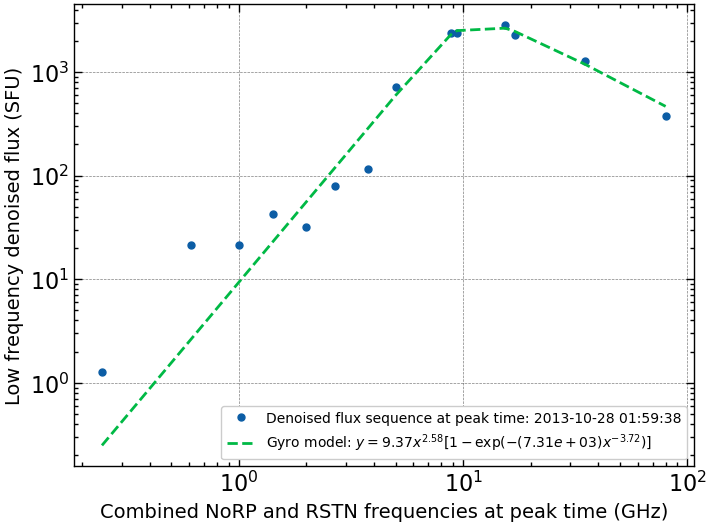
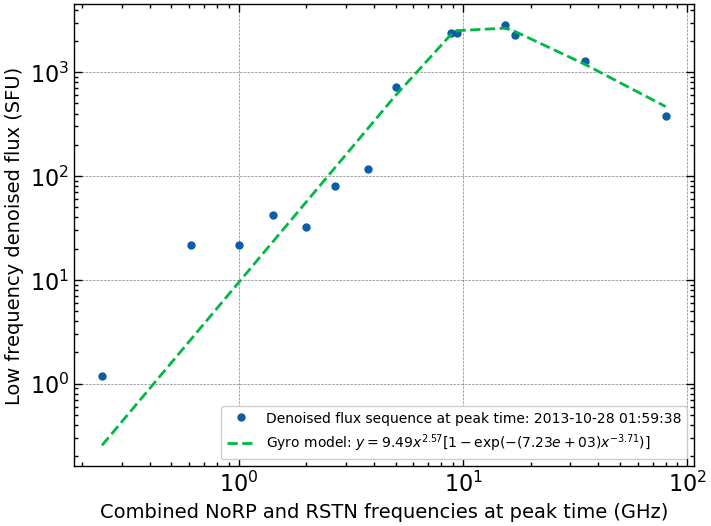
Script refactor

diff --git a/data_fitter.py b/data_fitter.py
@@ -36,8 +36,8 @@ def gyro_model(x_val, param_a_cap, param_b_cap, param_a, param_b):
     # Return gyro model
     return (
         param_a_cap
-        * x_val**param_a
-        * (1 - np.exp(-param_b_cap * x_val ** (-param_b)))
+        * (x_val**param_a)
+        * (1 - np.exp(-param_b_cap * (x_val ** (-param_b))))
     )
 
 
@@ -60,7 +60,7 @@ def plas_model(x_val, param_c, param_k):
 
     """
     # Return plas model
-    return param_c * x_val**param_k
+    return param_c * (x_val**param_k)
 
 
 # %% Fitted function result label generator
@@ -103,7 +103,7 @@ def fit_label(gyro_param, plas_param):
 
 # %% Gyro fitter
 # Gyro fitter function
-def gyro_fitter(data_freq, data_flux, cut, title):
+def gyro_fitter(data_freq, data_flux, cut):
     """
     Parameters
     ----------
@@ -113,8 +113,6 @@ def gyro_fitter(data_freq, data_flux, cut, title):
         Combined flux data array.
     cut : float
         Cut-off point for different fits.
-    title : string
-        Additional print out customization. 
 
     Returns
     -------
@@ -158,7 +156,7 @@ def gyro_fitter(data_freq, data_flux, cut, title):
     # Gyro fitter result title
     print()
     print("=" * 30)
-    print(f"{'Gyro fitter results' + title:<20}")
+    print(f"{'Gyro fitter results':<20}")
     print()
     # Print fit parameters
     print(f"{'Gyro fitter fitted parameters':<20}")
@@ -180,7 +178,7 @@ def gyro_fitter(data_freq, data_flux, cut, title):
 
 # %% Plas fitter
 # Plas fitter function
-def plas_fitter(data_x, data_y, cut, title):
+def plas_fitter(data_x, data_y, cut):
     """
     Parameters
     ----------
@@ -190,8 +188,6 @@ def plas_fitter(data_x, data_y, cut, title):
         Combined flux data array.
     cut : float
         Cut-off point for different fits.
-    title : string
-        Additional print out customization.
 
     Returns
     -------
@@ -206,8 +202,8 @@ def plas_fitter(data_x, data_y, cut, title):
     """
     # Generate filtered data
     data_x, data_y = (
-        data_x[data_x <= cut],
-        data_y[data_x <= cut],
+        data_x[data_x < cut],
+        data_y[data_x < cut],
     )
 
     # Iniitial parameter guess
@@ -225,6 +221,74 @@ def plas_fitter(data_x, data_y, cut, title):
     # Chi2 Tester
     # Chi2 calculation and dof generation
     chi_sqr, chi_dof = (
+        np.sum((fit_resid)**2 / fit_model),
+        len(data_x) - len(params),
+    )
+    # Chi2 p-value calculation
+    chi_p_val = 1 - chi2.cdf(chi_sqr, chi_dof)
+
+    # Results print out
+    # Gyro fitter result title
+    print()
+    print("=" * 30)
+    print(f"{'Plas fitter results':<20}")
+    print()
+    # Print fit parameters
+    print(f"{'Plas fitter fitted parameters':<20}")
+    print(f"{'c:':<20}{params[0]:>10.3f}")
+    print(f"{'k:':<20}{params[1]:>10.3f}")
+    print()
+    # Print chi2 results
+    print(f"{'Chi-square test result':<20}")
+    print(f"{'Chi-square:':<20}{chi_sqr:>10.3f}")
+    print(f"{'p-value:':<20}{chi_p_val:>10.3f}")
+    print("=" * 30)
+    print()
+
+    # Function return
+    return (params, cov, chi_sqr, chi_p_val)
+
+# %% Gyro fitter
+# Gyro fitter function
+def denoise_fitter(data_x, data_y):
+    """
+    Parameters
+    ----------
+    data_freq : array
+        Combined freq data array.
+    data_flux : array
+        Combined flux data array.
+    cut : float
+        Cut-off point for different fits.
+    title : string
+        Additional print out customization. 
+
+    Returns
+    -------
+    params : array
+        Fit parameters array.
+    cov : float
+        Covariance matrix of the fit.
+    chi_sqr :float
+        Chi-squared value of the fit.
+    chi_p_val : float
+        The p-value from the chi-sqaured test.
+    """
+    # Iniitial parameter guess
+    param_guess = [1, 1, 1, 1]  # param_A, param_B, param_a, param_b
+
+    # Curve fit results
+    params, cov = curve_fit(gyro_model, data_x, data_y, p0=param_guess)
+
+    # Residuals generator
+    # Get fitted model
+    fit_model = gyro_model(data_x, *params)
+    # Residual generator
+    fit_resid = data_y - fit_model
+
+    # Chi2 Tester
+    # Chi2 calculation and dof generation
+    chi_sqr, chi_dof = (
         np.sum(fit_resid**2 / fit_model),
         len(data_x) - len(params),
     )
@@ -235,12 +299,14 @@ def plas_fitter(data_x, data_y, cut, title):
     # Gyro fitter result title
     print()
     print("=" * 30)
-    print(f"{'Plas fitter results' + title:<20}")
+    print(f"{'Denoised gyro fitter results':<20}")
     print()
     # Print fit parameters
-    print(f"{'Plas fitter fitted parameters':<20}")
-    print(f"{'c:':<20}{params[0]:>10.3f}")
-    print(f"{'k:':<20}{params[1]:>10.3f}")
+    print(f"{'Gyro fitter fitted parameters':<20}")
+    print(f"{'A:':<20}{params[0]:>10.3f}")
+    print(f"{'B:':<20}{params[1]:>10.3f}")
+    print(f"{'a:':<20}{params[2]:>10.3f}")
+    print(f"{'b:':<20}{params[3]:>10.3f}")
     print()
     # Print chi2 results
     print(f"{'Chi-square test result':<20}")
@@ -274,9 +340,9 @@ def gyro_pass(data_freq, data_flux, cut, plas_param):
     """
     # Cut-off array local repo
     data_x, data_y, data_y_base = (
-        data_freq[data_freq <= cut],
-        data_flux[data_freq <= cut],
-        data_flux[data_freq > cut],
+        data_freq[data_freq < cut],
+        data_flux[data_freq < cut],
+        data_flux[data_freq >= cut],
     )
 
     # Get denoised flux array in plas model domain

diff --git a/main.py b/main.py
@@ -14,7 +14,7 @@ from data_handler import loader, validator, quiet_sun, collector
 from data_plotter import plot_generator, log_avg_plotter
 
 # Data fitter import
-from data_fitter import gyro_fitter, plas_fitter, gyro_pass
+from data_fitter import gyro_fitter, plas_fitter, gyro_pass, denoise_fitter
 
 # %% Data path and peak time assignment
 # Assign norp, apl, and phf file path
@@ -83,19 +83,20 @@ freq_cut = 2
 # %% Generate combined fit results
 # Get fitted results
 results_gyro, results_plas = (
-    gyro_fitter(peak_time_freq, peak_time_flux, freq_cut, ""),
-    plas_fitter(peak_time_freq, peak_time_flux, freq_cut, ""),
+    gyro_fitter(peak_time_freq, peak_time_flux, freq_cut),
+    plas_fitter(peak_time_freq, peak_time_flux, freq_cut),
 )
 # Assign fit parameters
 gyro_param, plas_param = results_gyro[0], results_plas[0]
 
 # %% Flux array denoise at low freq
-gyro_flux_denoise = gyro_pass(
-    peak_time_freq, peak_time_flux, freq_cut, plas_param
+gyro_freq_denoise, gyro_flux_denoise = (
+    peak_time_freq,
+    gyro_pass(peak_time_freq, peak_time_flux, freq_cut, plas_param),
 )
 
 # %% Refit with denoised data
-results_denoise = gyro_fitter(peak_time_freq, gyro_flux_denoise, freq_cut, "-denoised")
+results_denoise = denoise_fitter(gyro_freq_denoise, gyro_flux_denoise)
 denoise_param = results_denoise[0]
 
 # %% Plotter argument assignment
@@ -137,7 +138,7 @@ plt_arg1, plt_arg2, plt_arg3, plt_arg4, plt_arg5 = (
     ),
     # Denoised plotter arguments
     (
-        peak_time_freq,
+        gyro_freq_denoise,
         gyro_flux_denoise,
         norp_peak_time,
         denoise_param,

diff --git a/data_plotter.py b/data_plotter.py
@@ -403,7 +403,7 @@ def peak_plotter(arg):
     # Fitted function repo
     data_gyro, data_plas = (
         gyro_model(data_peak_freq[data_peak_freq >= freq_cut], *gyro_param),
-        plas_model(data_peak_freq[data_peak_freq <= freq_cut], *plas_param),
+        plas_model(data_peak_freq[data_peak_freq < freq_cut], *plas_param),
     )
 
     # Fit label local repo
@@ -414,6 +414,7 @@ def peak_plotter(arg):
         data_peak_freq,
         data_peak_flux,
         ".",
+        color="black",
         markersize=10,
         markeredgecolor="black",
         label="Flux sequence at peak time: " + data_norp_peak_time,
@@ -427,9 +428,9 @@ def peak_plotter(arg):
         markeredgecolor="red",
         label=label_gyro,
     )
-    # Plas fit curve - x <= 2
+    # Plas fit curve - x < 2
     plt_2 = plt.plot(
-        data_peak_freq[data_peak_freq <= freq_cut],
+        data_peak_freq[data_peak_freq < freq_cut],
         data_plas,
         "x--",
         markersize=10,
